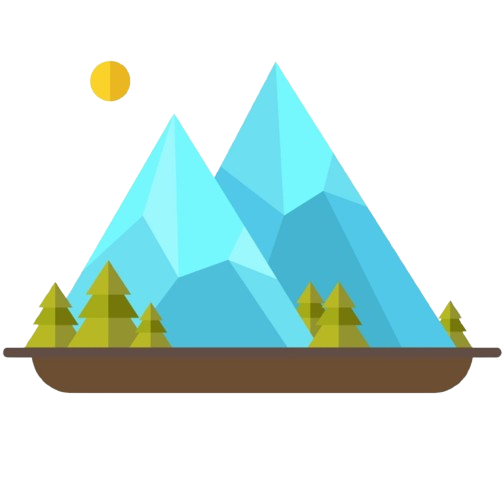
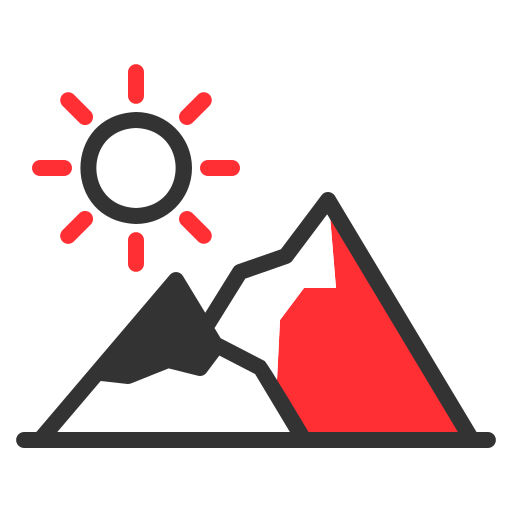
feat: add new start marker asset for offline tracking screen

diff --git a/lib/presentation/offline_tracking_screen/offline_tracking_screen.dart b/lib/presentation/offline_tracking_screen/offline_tracking_screen.dart
@@ -1464,10 +1464,10 @@ class _OfflineTrackingScreenState extends State<OfflineTrackingScreen> {
                       point: state.gpxRoutePoints.first,
                       width: 36,
                       height: 36,
-                      child: const Icon(
-                        Icons.play_circle_fill,
-                        color: Colors.green,
-                        size: 30,
+                      child: _buildMarkerAsset(
+                        assetPath: 'assets/images/start.png',
+                        fallbackIcon: Icons.play_circle_fill,
+                        fallbackColor: Colors.green,
                       ),
                     ),
                   if (state.gpxRoutePoints.length > 1)
